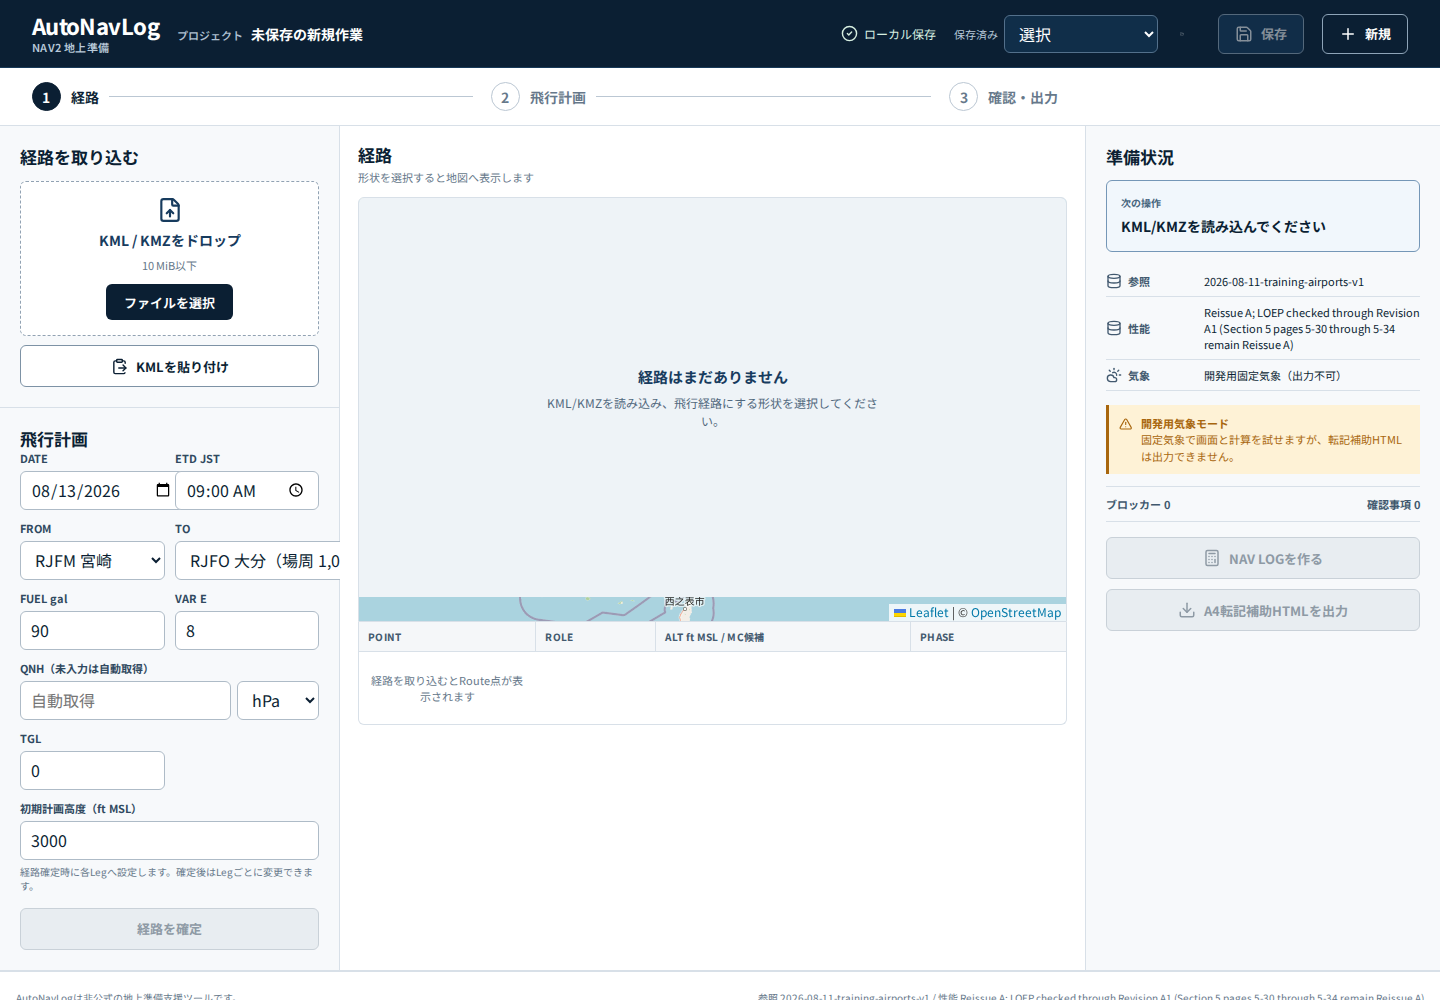
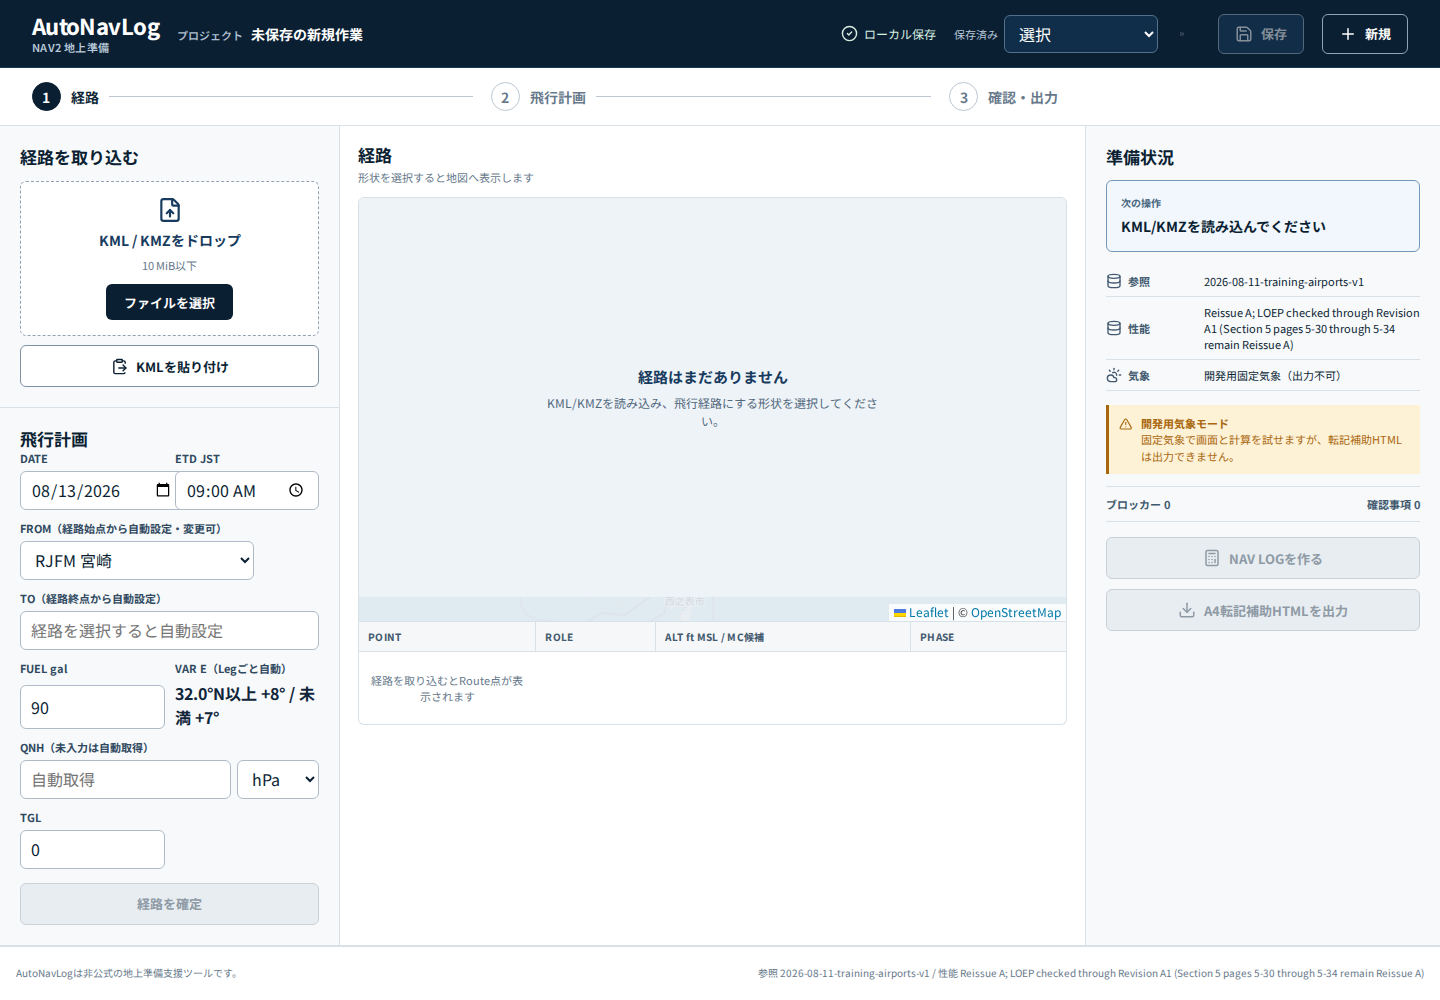
Fix integrated web regressions for Issues #18 and #20

diff --git a/web/e2e/web.spec.ts b/web/e2e/web.spec.ts
@@ -65,6 +65,16 @@ async function calculateNavLog(page: Page): Promise<void> {
   for (let index = 0; index < await altitudeInputs.count(); index += 1) {
     await altitudeInputs.nth(index).fill("4500");
   }
+  const altitudeCandidates = page.locator(".altitude-candidate-select");
+  const firstAltitudeCandidate = await altitudeCandidates
+    .first()
+    .locator("option")
+    .first()
+    .getAttribute("value");
+  if (firstAltitudeCandidate === null) throw new Error("Altitude candidate is missing");
+  for (let index = 0; index < await altitudeCandidates.count(); index += 1) {
+    await altitudeCandidates.nth(index).selectOption({ index: 0 });
+  }
   const cruiseAltitude = page.getByLabel(/出発Legの巡航高度候補/).first();
   const variationGuidance = page.locator(".altitude-course");
   await expect(variationGuidance.first()).toContainText("VAR +7°");
@@ -93,14 +103,14 @@ async function calculateNavLog(page: Page): Promise<void> {
   await expect(patternAltitude).toHaveValue("1300");
   await confirmDestination.click();
   await expect(patternAltitude).toHaveValue("1300");
-  await expect(altitudeInputs.first()).toHaveValue("4500");
+  await expect(altitudeInputs.first()).toHaveValue(firstAltitudeCandidate);
   await expect(altitudeInputs.last()).toHaveValue("1800");
   await expect(cruiseAltitude).toHaveValue(cruiseCandidate);
   await expect(page.locator(".altitude-review-row")).toHaveCount(0);
   await page.getByRole("button", { name: "NAV LOGを作る" }).click();
   await expect(page.getByLabel("計算済みNAV LOG")).toBeFocused();
   const firstRow = page.locator(".nav-log-table .nav-leg-detail-row").first();
-  await expect(firstRow.locator("td").nth(2)).toHaveText("4500");
+  await expect(firstRow.locator("td").nth(2)).toHaveText(firstAltitudeCandidate);
   await expect(firstRow.locator("td").nth(7)).toHaveText("+7自動");
 }
 

diff --git a/web/src/styles.css b/web/src/styles.css
@@ -593,7 +593,7 @@ tbody tr:last-child td { border-bottom: 0; }
 .output-button { margin-top: 10px; }
 .button-reason { margin: 6px 0 0; color: var(--slate-500); font-size: 10px; line-height: 1.45; text-align: center; }
 
-.nav-log-section { max-width: 1530px; margin: 28px auto 0; padding: 0 16px 24px; }
+.nav-log-section { width: 100%; min-width: 0; max-width: 1530px; margin: 28px auto 0; padding: 0 16px 24px; }
 .nav-log-edit-guide {
   display: flex;
   flex-wrap: wrap;
@@ -612,7 +612,7 @@ tbody tr:last-child td { border-bottom: 0; }
 .nav-log-edit-status-error { color: var(--red-700); background: var(--red-50); }
 .nav-log-heading { margin-bottom: 12px; }
 .nav-log-heading > span { color: var(--slate-500); font-size: 10px; }
-.nav-log-scroll { border: 1px solid var(--slate-200); border-radius: var(--radius-sm); }
+.nav-log-scroll { contain: layout paint; border: 1px solid var(--slate-200); border-radius: var(--radius-sm); }
 .nav-log-tables { display: flex; align-items: flex-start; gap: 12px; width: max-content; min-width: 100%; }
 .nav-log-table { flex: 0 0 1680px; width: 1680px; min-width: 1680px; }
 .nav-log-table th, .nav-log-table td { padding: 4px 5px; }
@@ -638,7 +638,13 @@ tbody tr:last-child td { border-bottom: 0; }
 }
 .manual-value small { display: block; margin-top: 2px; color: var(--teal-700); font-size: 8px; font-weight: 700; }
 .manual-entry-cell { min-width: 48px; background: #fffdf5; }
-.nav-log-focus-target { scroll-margin-top: 14px; }
+.nav-log-focus-target {
+  width: 100%;
+  min-width: 0;
+  max-width: 100vw;
+  overflow-x: hidden;
+  scroll-margin-top: 14px;
+}
 .nav-log-focus-target:focus { outline: 3px solid rgba(12, 124, 120, 0.28); outline-offset: -3px; }
 .manual-value { color: var(--teal-700) !important; font-weight: 700; }
 .unavailable-value { color: var(--red-700) !important; font-weight: 700; }
